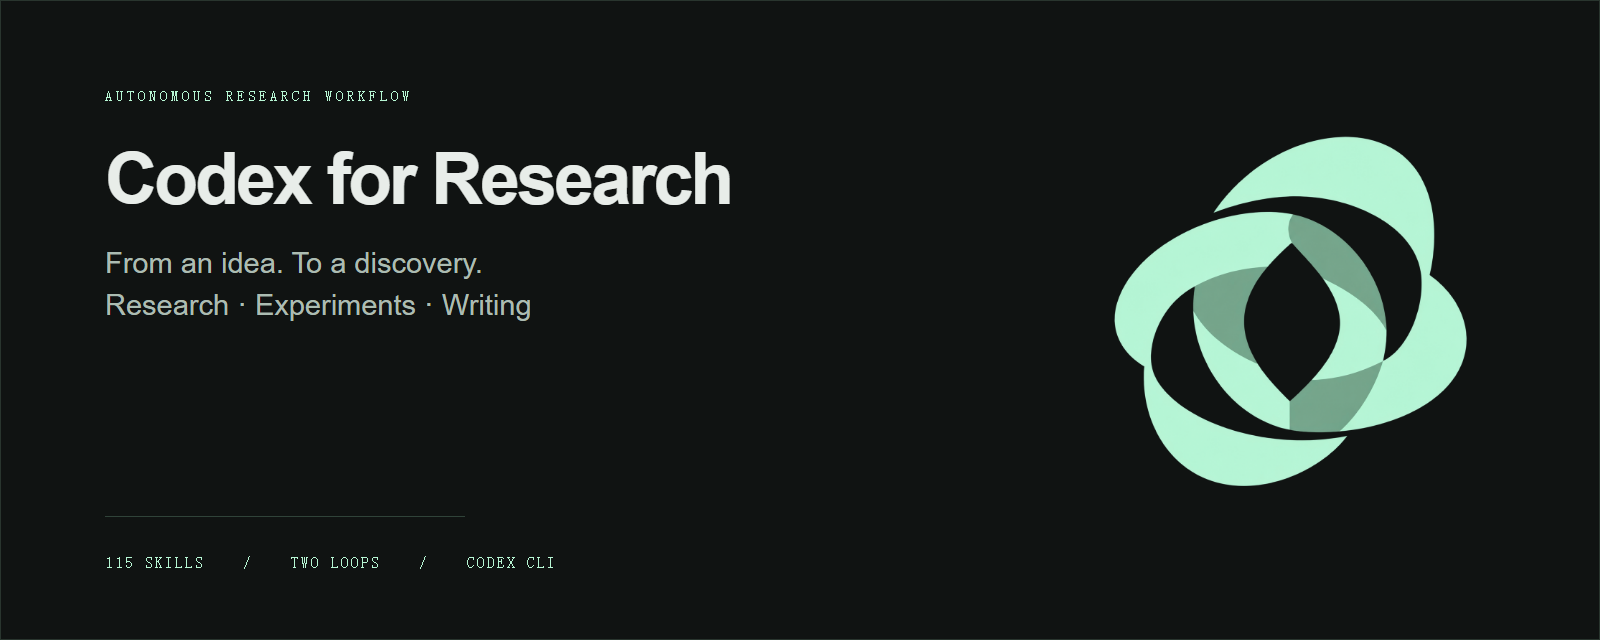
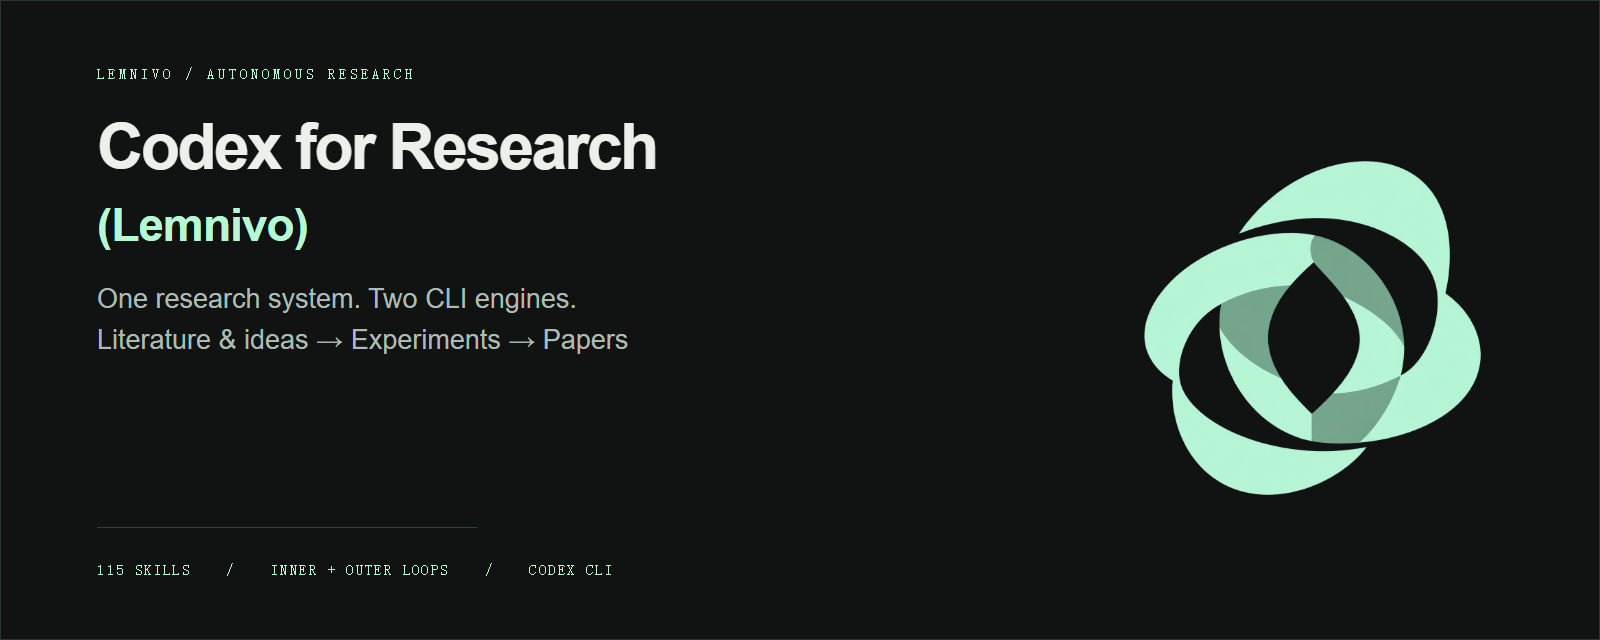
Introduce Lemnivo shared research brand and refresh bilingual homepage

diff --git a/README.md b/README.md
@@ -1,15 +1,15 @@
-<p align="center"><a href="https://yichen-zju.github.io/claude-for-research/"><img src="assets/research-cover.png" alt="Codex for Research — Turn your AI CLI into an autonomous research lab" width="100%"></a></p>
+<p align="center"><a href="https://yichen-zju.github.io/claude-for-research/"><img src="assets/research-cover.png?v=lemnivo-1" alt="Codex for Research (Lemnivo) — One research system. Two CLI engines." width="100%"></a></p>
 
-<h1 align="center">Codex for Research</h1>
-<p align="center"><strong>让想法，走到发现。<br>Turn your AI CLI into an autonomous research lab.</strong></p>
-<p align="center"><a href="https://yichen-zju.github.io/claude-for-research/?lang=zh">中文主页</a> · <a href="https://yichen-zju.github.io/claude-for-research/?lang=en">English website</a> · <a href="#quickstart">Quickstart</a> · <a href="https://github.com/Yichen-ZJU/claude-for-research">Claude for Research</a></p>
+<h1 align="center">Codex for Research (Lemnivo)</h1>
+<p align="center"><strong>一套自主科研体系，两种 CLI 引擎。<br>One research system. Two CLI engines.</strong><br>让想法，走到发现。 / From an idea. To a discovery.</p>
+<p align="center"><a href="https://yichen-zju.github.io/claude-for-research/?lang=zh">Lemnivo 中文主页</a> · <a href="https://yichen-zju.github.io/claude-for-research/?lang=en">Lemnivo in English</a> · <a href="#quickstart">Quickstart</a> · <a href="https://github.com/Yichen-ZJU/claude-for-research">Claude for Research (Lemnivo)</a></p>
 <p align="center"><img src="https://img.shields.io/badge/skills-115-B7F7D4?style=flat-square&amp;labelColor=101312" alt="115 skills"> <img src="https://img.shields.io/badge/engine-Codex%20CLI-B7F7D4?style=flat-square&amp;labelColor=101312" alt="Codex CLI"> <img src="https://img.shields.io/badge/workflow-research%20%E2%86%92%20experiments%20%E2%86%92%20papers-B7F7D4?style=flat-square&amp;labelColor=101312" alt="Research to experiments to papers"></p>
 
-把 **Codex CLI** 变成一个自主科研工作台。从文献调研与选题，到无人值守的模型改进试验，再到论文写作与评审，由 **Research Orchestrator** 协调全程，115 个科研技能提供工作流与领域方法。
+**Lemnivo** 是运行在 Claude Code 与 Codex CLI 上的自主科研体系。**Codex for Research (Lemnivo)** 把 Codex CLI 变成科研工作台：从深广度文献调研与 Idea 构思，到无人值守的模型改进试验，再到论文写作与评审，由 **Research Orchestrator** 协调全程，**115 个科研技能**提供工作流与领域方法。
 
-同一套技能目录也运行在 **Claude Code** 上：选择习惯的 CLI，保留熟悉的科研流程。两个仓库各含 **115 个技能，技能名称集合一致**；工具调用与运行机制分别适配各自引擎。
+选择 **Claude Code** 或 **Codex CLI**，保留同一套 Lemnivo 科研流程。两个仓库各含 **115 个技能，技能名称集合一致**；工具调用与运行机制分别适配各自引擎。
 
-Equip **Codex CLI** with an autonomous research workflow. **Research Orchestrator** coordinates literature and ideation, unattended model-improvement experiments, and writing and review. **115 skills** supply the research workflows and domain methods. The same skill catalogue runs on **Claude Code**, with engine-specific tool adaptations.
+**Lemnivo** brings one autonomous research system to **Claude Code** and **Codex CLI**. **Codex for Research (Lemnivo)** equips Codex CLI with broad and deep literature research, idea development, unattended model-improvement experiments, and paper writing and review. **Research Orchestrator** coordinates the whole journey, supported by **115 research skills** and nested experiment and reflection loops. The same skill catalogue runs on Claude Code, with engine-specific tool adaptations.
 
 ## 一套流程，两层循环 / One workflow, two loops
 
